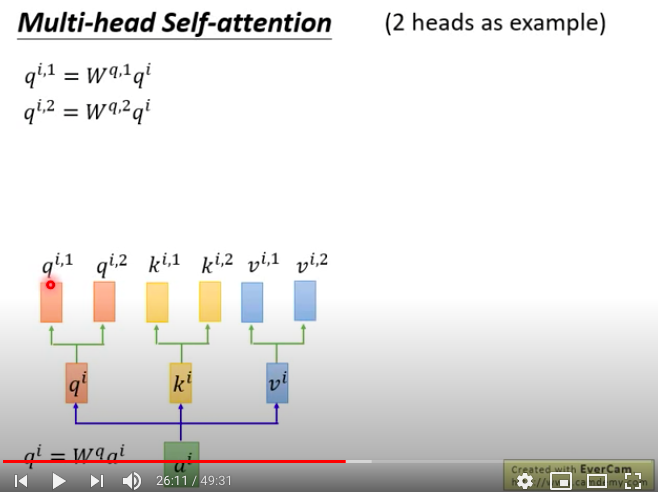
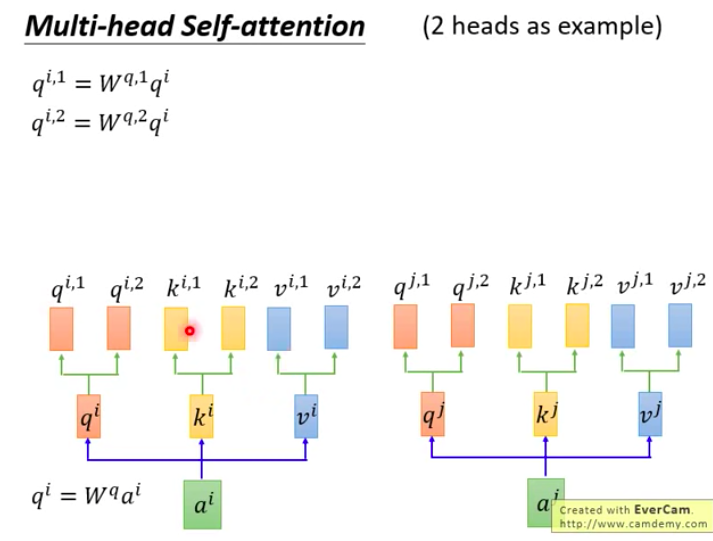
[Feature] setuptools and demo case

diff --git a/transformer.md b/transformer.md
@@ -49,25 +49,31 @@ v : value
 ``` 
 psudocode
 
-1. sequence x 先通過任意的網路結構，產生embedding a
-2. attention layer會對seq中的每個單元做三個transform : q, k, v
-3. 拿每個query q 去對每個key k 做attention 
-4. 將attention的alpha i j 過Soft-max
-5. 產生一個match分數之後，拿去跟v相乘
-6. 以alpha 1, j 算完的weight sum就是b1，alpha 2, j算完的 weight sum就是b2 依此類推
+1. sequence x 先通過任意的網路結構，產生embedding a，這裡先假設是一個線性個Matrix，W
+2. attention layer會對seq中的每個單元a做三個transform(透過neroun weight) : q, k, v，
 
+這個q稱作query，待會會拿去和其他人match
+
+k稱作key，會被其他人match
+
+v則是information，會被抽取出來
 ```
 
 * attention 吃兩個向量 - output一個分數
-  + 有幾百種做法，例如inner product
-  + self attention使用的是 scaled dot product attention - 為了讓分數之間能夠被比較，必須做normalization，這裡採用$d$ = dimension of q and k(因為d越大，mean, variance就會越大)
-  + 老師提到你也可以做其他的attention方法，看看會怎樣，老師自己也沒做過實驗XD
+* 有幾百種做法，例如inner product
+* self attention使用的是 scaled dot product attention - 為了讓分數之間能夠被比較，必須做normalization，這裡採用$d$ = dimension of q and k(因為q和k兩個向量的dimension越大，內積出來的variance就會越大)
+* 老師提到你也可以做其他的attention方法，看看會怎樣，老師自己也沒做過實驗XD
 
 <img src='./images/tf_8.png'></img>
 <img src='./images/tf_9.png'></img>
 <img src='./images/tf_10.png'></img>
+
+* 接下來$q^{1}$對很多$k$做attention之後，把這些alpha值經過一層soft-max的normalization
+* 事實上soft-max也是一種normalization，normalized之後所有score加起來會是1，而這些$alpha_{1, i}$的值最大的會戰最大比重，其他的都會小得多(exponential decay)
+
 <img src='./images/tf_11.png'></img>
 
+* 所以看起來這些$\hat{\alpha_{1, j}}$是把query和value match之後所產生的某種權重，接下來怎麼做呢，我們拿去和$v$相乘
 * 你可以看到$b^{1}$事實上也是看過所有$a^{1}~-~ a^{4}$，然而你只想考慮local information而不是global information，只要$\hat{\sum_{j}\alpha_{1, j}v^{j}}$裡面的$\hat{\alpha_{1, j}}$足夠小，那麼那個input就沒有被收到更多的關注
 * 至於到底要看到多遠，可以用attension layer根據資料去學習出來
 * 這樣的做法是可平行化的，$b^{2}$不用等$b^{1}$就可以算出來
@@ -131,12 +137,22 @@ $$
 # Multi-head Self-attention
 
 * 一種變形
-* $q, k, v$分裂成兩個
+* $q, k, v$分裂成兩個，最後再接起來
 * 有可能不同的head會關注不同的$alpha$，可能一個關注短期，一個關注長期等，你想做幾個head都可以
+* Multi-head的好處是在現行架構下，每一個attention幾乎就只會關注到一個值，如果你希望他關注到多個值，你就可以使用Multi-head的self attention
 
 <img src='./images/tf_25.png'></img>
+
 但是一個head只對一組q, k, v 作用
 兩個head產生$b^{1, 1}, b^{i, 2}$然後再乘上一個$W^{0}$變成$b^{i}$
+
+但是我們仍然會想要同樣的output，所以最後這些b還會降維回來
+<img src='./images/tf_25_2.png'></img>
+
+* 但實際上我們只要一個b，所以這些multi-head的result還可以再透過一個matrix降維回來1維的b
+* 透過這樣的機制就可以關注多個位置的information
+
+<img src='./images/tf_25_3.png'></img>
 
 # Positional Encoding
 
@@ -146,16 +162,16 @@ $$
 <img src='./images/tf_26.png'></img>
 
 * 為什麼是相加而不是concat?
-  + 有另一篇論文做了這件事情，採用one-hot的concat，然後在乘上$W$，於是乎就會發現需要一個$W^{I}, W^{P}$
+* 李老師這邊提供了一個直觀的觀點，對於原本的X我們都給訂一個p，採用one-hot的編碼來表達位置資訊，是一個column vector，concat，然後在乘上$W$，於是乎就會發現需要一個$W^{I}, W^{P}$
 
 <img src='./images/tf_27.png'></img>
-
-* 而這樣的做法最後會得到$a^{i}$ + $e^{i}$這樣的結果
 
 <img src='./images/tf_28.png'></img>
 
 * 然而在$W^{p}$的學習上，原始paper(attention is all you need)中，google團隊有做過嘗試，然而並沒有比較好
+* 所以我們可以看到說，$a^{i}$就是$W^{I}x^{i}$，$e^{i}$就是$W^{P}p^{i}$
 
+  
 <img src='./images/tf_29.png'></img>
 
 # Seq2seq with Attention
@@ -184,11 +200,18 @@ Encoder -> 雙向RNN, decoder -> RNN 全部換成Self-Attention
 <img src='./images/tf_34.png'></img>
 <img src='./images/tf_35.png'></img>
 
+<img src='./images/tf_36.png'></img>
+
+* Input 機器學習
+* Decoder input BOS(Begin of Sentence)，output machine
+* 再輸入machine 輸出learning
+* 再輸入learning，輸出句點 結束
+* 所以有一個Masked Multi-Head Attention是因為在產生output sequence的時候，尚未產生的token沒辦法被attention，所以Mask Multi-Head Attention已經有的output word做Attention
+* 接著再拿Encoder裡面已經看過的input做attention
+
 # Attention Visialization
 
 每兩個word會有一個attention
-
-<img src='./images/tf_36.png'></img>
 
 * 左方，The animal didn't cross the street because it was too tired.
   + it 對應到animal最明顯
@@ -201,11 +224,11 @@ Encoder -> 雙向RNN, decoder -> RNN 全部換成Self-Attention
 
 顯然Multi-head attention的每個head關注的是不同的事情，上方關注更global，下方關注更local
 
+<img src='./images/tf_38.png'></img>
+
 # Application
 
 ## Summarizer
-
-<img src='./images/tf_38.png'></img>
 
 Summarizer : input文章，output摘要(same thing using tfidf can be a baseline)
 google想要用這個做法，input一大堆文章，output wiki的每個頁面

diff --git a/packaging_your_code.md b/packaging_your_code.md
@@ -1,3 +1,9 @@
 # packaging your code
+
 * 上傳到PyPI，就能夠被pip install了，如此簡單自然
 * [教學](http://dokelung-blog.logdown.com/posts/238050-collation-and-publishing-of-the-project-from-github-to-pypi)
+
+# setuptools
+
+* 可參考getting start的 `develop mode`
+* demo-case在 `demo/packaging/中`
